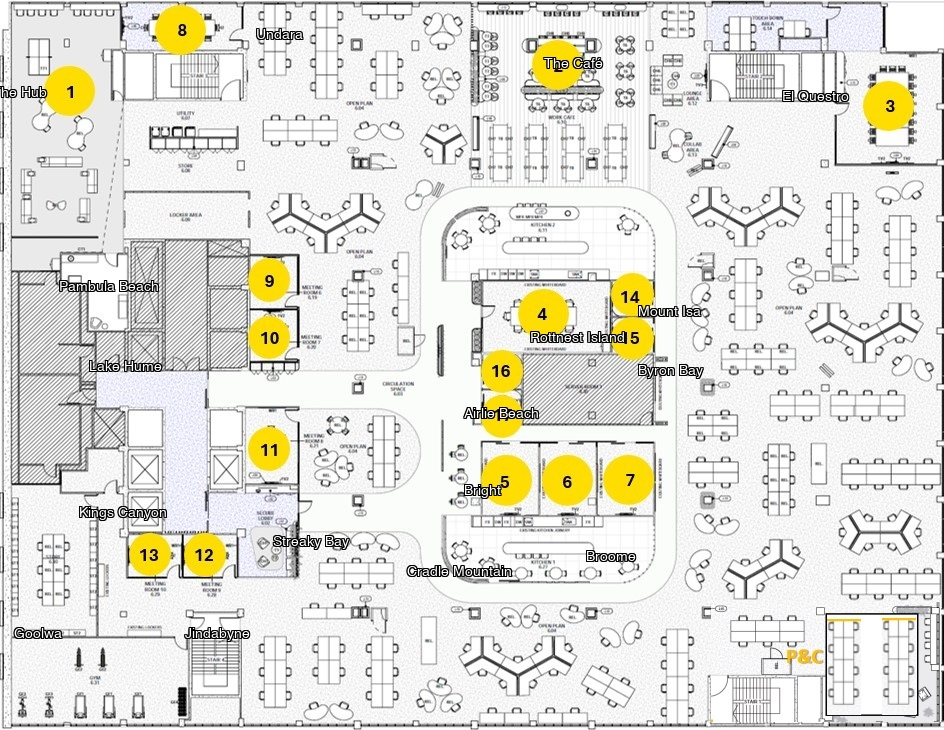
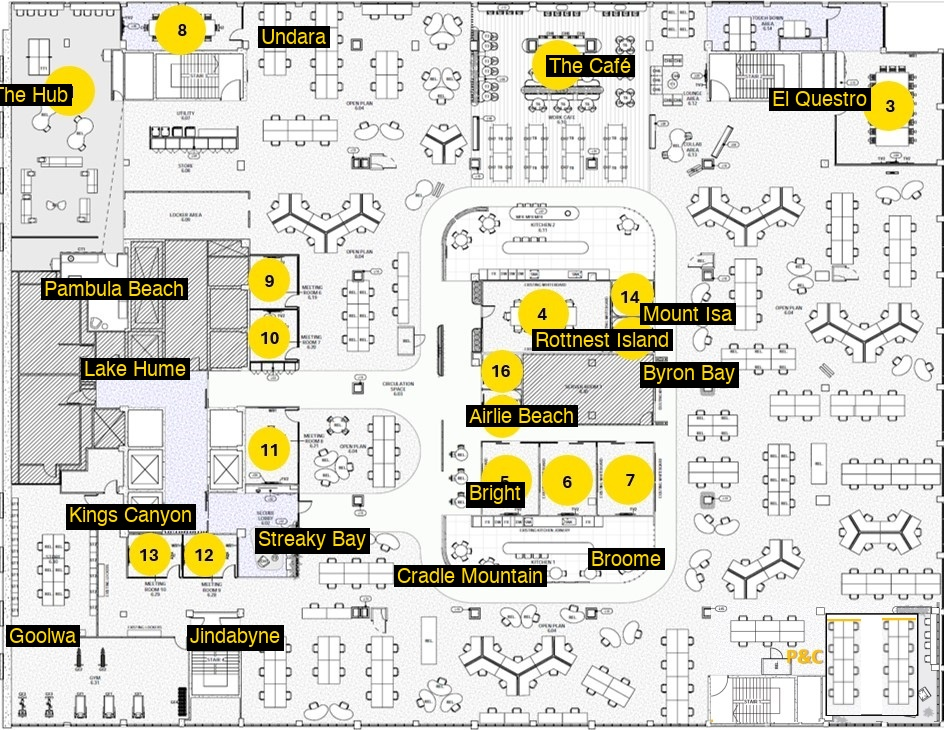
v3.3.1: Improve text readability with bigger font and backgrounds
- Increased font size from 14px to 20px
- Bright yellow (#FFD700) text for high contrast
- Semi-transparent black backgrounds behind text
- Thicker black outline (2px) for better edge definition
- Much more readable on all backgrounds

diff --git a/src/App.tsx b/src/App.tsx
@@ -295,7 +295,7 @@ function App() {
 
       {/* Footer */}
       <footer className="text-center mt-4 pb-3">
-        <small className="text-muted">Meeting Rooms v3.3.0</small>
+        <small className="text-muted">Meeting Rooms v3.3.1</small>
       </footer>
     </CContainer>
   )
